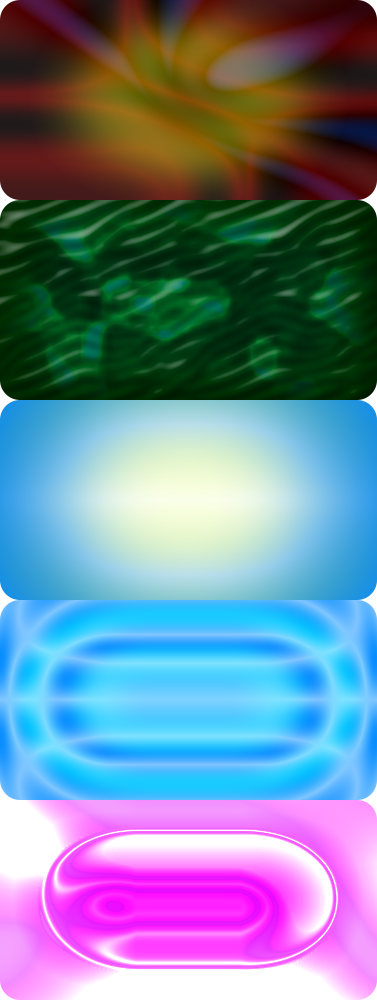
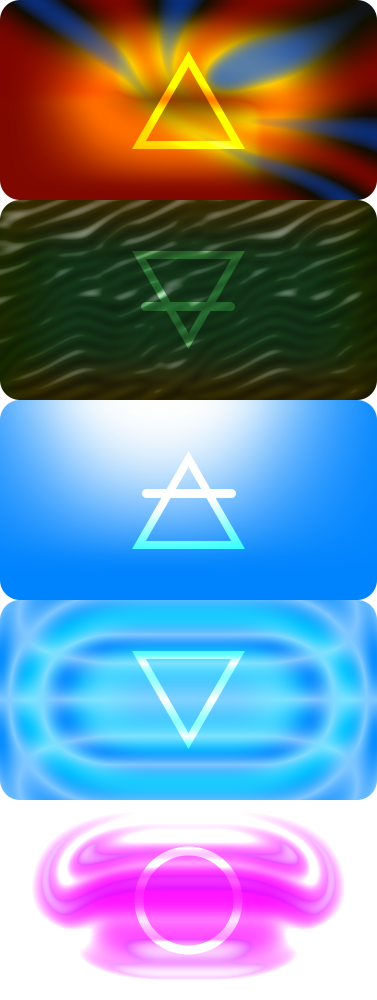
add instruments and tween

diff --git a/js/game.js b/js/game.js
@@ -148,6 +148,8 @@ var HumanMusic;
             _this._pads = [];
             _this._tempo = [];
             _this._controls = [];
+            _this._instruments = [];
+            _this._instrumentTweens = [];
             _this._current = 15;
             _this._beginListenCount = 0;
             _this.initPushedPads();
@@ -155,6 +157,7 @@ var HumanMusic;
             _this.createTimer();
             _this.computeRemains();
             _this.generateTempo();
+            _this.generateInstruments();
             _this.generatePads();
             _this.generateControls();
             _this.launchListen();
@@ -168,7 +171,6 @@ var HumanMusic;
             _this._remainText.anchor.set(1, 0.5);
             _this._remainText.fill = '#00FFFF';
             _this.initBonusEmitter();
-            console.log(_this._level, _this._element);
             return _this;
         }
         MainLayer.prototype.updateRemainText = function () {
@@ -255,6 +257,21 @@ var HumanMusic;
                 this._tempo[i] = tempo;
             }
         };
+        MainLayer.prototype.generateInstruments = function () {
+            for (var i = 0; i < this._levelInstruments[this._level]; i++) {
+                this._instruments[i] = this.game.add.sprite(51, 349 - 52 * i, 'Instruments', i);
+                this._instruments[i].anchor.set(0.5, 0.5);
+                this._instrumentTweens[i] = this.game.add.tween(this._instruments[i].scale).
+                    to({ x: 0.8, y: 0.8 }, 100, function (k) {
+                    return Math.sin(Math.PI * k);
+                }, false, 0);
+            }
+        };
+        MainLayer.prototype.bounce = function (index) {
+            if (!this._instrumentTweens[index].isRunning) {
+                this._instrumentTweens[index].start();
+            }
+        };
         MainLayer.prototype.generatePads = function () {
             var scope = this;
             var _loop_1 = function (i) {
@@ -280,6 +297,11 @@ var HumanMusic;
                 this.preLaunchListen();
             }, this);
             button.anchor.set(0.5, 1);
+            this._controls['listen'] = button;
+            var returnButton = this.game.add.button(50, 50, 'Return', function () {
+                this.game.state.start("Menu");
+            }, this, 1, 0, 2);
+            returnButton.anchor.set(0.5, 0.5);
             this._controls['listen'] = button;
         };
         MainLayer.prototype.preLaunchListen = function () {
@@ -351,6 +373,7 @@ var HumanMusic;
                 for (var i = 0; i < this._levelInstruments[this._level]; i++) {
                     if (this._pushedPads[i][this._current]) {
                         this._soundArray[i].play();
+                        this.bounce(i);
                         this.correctInputs(i);
                     }
                 }
@@ -370,6 +393,7 @@ var HumanMusic;
                     for (var i = 0; i < this._levelInstruments[this._level]; i++) {
                         if (this._element.track[i][this._current]) {
                             this._soundArray[i].play();
+                            this.bounce(i);
                         }
                         if (this._pushedPads[i][this._current]) {
                             this.correctInputs(i);
@@ -421,6 +445,7 @@ var HumanMusic;
                 for (var i = 0; i < this._levelInstruments[this._level]; i++) {
                     if (this._element.track[i][this._current]) {
                         this._soundArray[i].play();
+                        this.bounce(i);
                     }
                     if (this._pushedPads[i][this._current]) {
                         this.correctInputs(i);
@@ -610,7 +635,7 @@ var HumanMusic;
             this._index = index;
         };
         Play.prototype.create = function () {
-            this.stage.backgroundColor = 0x222222;
+            this.stage.backgroundColor = 0x000000;
             this._mainLayer = new HumanMusic.MainLayer(this.game, this.world, this._index);
         };
         Play.prototype.update = function () {
@@ -639,6 +664,8 @@ var HumanMusic;
             this.load.spritesheet('Bonus', 'assets/bonus.png', 25, 25);
             this.load.spritesheet('Elements', 'assets/elements.png', 377, 200);
             this.load.spritesheet('Navigation', 'assets/navigation.png', 200, 50);
+            this.load.spritesheet('Return', 'assets/return.png', 50, 50);
+            this.load.spritesheet('Instruments', 'assets/instruments.png', 50, 50);
             // Sounds
             this.load.audio('kick', 'assets/kick.wav');
             this.load.audio('snare', 'assets/snare.wav');

diff --git a/src/Game/MainLayer.ts b/src/Game/MainLayer.ts
@@ -6,8 +6,10 @@ namespace HumanMusic {
 
         private tuto: boolean = true;
         private _pads: Phaser.Button[][];
+        private _instruments: Phaser.Sprite[];
         private _tempo: Phaser.Sprite[];
         private _pushedPads: boolean[][];
+        public _instrumentTweens: Phaser.Tween[];
 
         private _element: Elemental;
         private _level: number;
@@ -39,6 +41,8 @@ namespace HumanMusic {
             this._pads = [];
             this._tempo = [];
             this._controls = [];
+            this._instruments = [];
+            this._instrumentTweens = [];
 
             this._current = 15;
             this._beginListenCount = 0;
@@ -49,6 +53,7 @@ namespace HumanMusic {
             this.createTimer();
             this.computeRemains();
             this.generateTempo();
+            this.generateInstruments();
             this.generatePads();
             this.generateControls();
             this.launchListen();
@@ -66,7 +71,7 @@ namespace HumanMusic {
             this._remainText.fill = '#00FFFF';
 
             this.initBonusEmitter();
-            console.log(this._level, this._element);
+
         }
 
         private updateRemainText() {
@@ -166,6 +171,25 @@ namespace HumanMusic {
             }
         }
 
+        private generateInstruments() {
+            for (let i = 0; i < this._levelInstruments[this._level]; i++) {
+                this._instruments[i] = this.game.add.sprite(51, 349 - 52 * i, 'Instruments', i);
+                this._instruments[i].anchor.set(0.5, 0.5);
+
+                this._instrumentTweens[i] = this.game.add.tween(this._instruments[i].scale).
+                to({ x: 0.8, y: 0.8 }, 100,
+                    function (k: number) {
+                        return Math.sin(Math.PI * k);
+                    }, false, 0);
+            }
+        }
+
+        public bounce(index: number): void {
+            if (!this._instrumentTweens[index].isRunning) {
+                this._instrumentTweens[index].start();
+            }
+        }
+
         private generatePads() {
             let scope = this;
             for (let i = 0; i < this._levelInstruments[this._level]; i++) {
@@ -186,6 +210,12 @@ namespace HumanMusic {
                 this.preLaunchListen();
             }, this);
             button.anchor.set(0.5, 1);
+            this._controls['listen'] = button;
+
+            let returnButton = this.game.add.button(50 , 50, 'Return', function() {
+                this.game.state.start("Menu");
+            }, this, 1, 0, 2);
+            returnButton.anchor.set(0.5, 0.5);
             this._controls['listen'] = button;
         }
 
@@ -267,6 +297,7 @@ namespace HumanMusic {
                 for (let i = 0; i < this._levelInstruments[this._level]; i++) {
                     if (this._pushedPads[i][this._current]) {
                         this._soundArray[i].play();
+                        this.bounce(i);
                         this.correctInputs(i);
                     }
                 }
@@ -284,6 +315,7 @@ namespace HumanMusic {
                     for (let i = 0; i < this._levelInstruments[this._level]; i++) {
                         if (this._element.track[i][this._current]) {
                             this._soundArray[i].play();
+                            this.bounce(i);
                         }
                         if (this._pushedPads[i][this._current]) {
                             this.correctInputs(i);
@@ -308,6 +340,7 @@ namespace HumanMusic {
                 for (let i = 0; i < this._levelInstruments[this._level]; i++) {
                     if (this._element.track[i][this._current]) {
                         this._soundArray[i].play();
+                        this.bounce(i);
                     }
                     if (this._pushedPads[i][this._current]) {
                         this.correctInputs(i);
@@ -329,6 +362,7 @@ namespace HumanMusic {
                 for (let i = 0; i < this._levelInstruments[this._level]; i++) {
                     if (this._element.track[i][this._current]) {
                         this._soundArray[i].play();
+                        this.bounce(i);
                     }
                     if (this._pushedPads[i][this._current]) {
                         this.correctInputs(i);

diff --git a/src/States/Preload.ts b/src/States/Preload.ts
@@ -14,6 +14,8 @@ namespace HumanMusic {
             this.load.spritesheet('Bonus', 'assets/bonus.png', 25, 25);
             this.load.spritesheet('Elements', 'assets/elements.png', 377, 200);
             this.load.spritesheet('Navigation', 'assets/navigation.png', 200, 50);
+            this.load.spritesheet('Return', 'assets/return.png', 50, 50);
+            this.load.spritesheet('Instruments', 'assets/instruments.png', 50, 50);
 
             // Sounds
             this.load.audio('kick', 'assets/kick.wav');

diff --git a/src/States/Play.ts b/src/States/Play.ts
@@ -9,7 +9,7 @@ namespace HumanMusic {
         }
 
         public create() {
-            this.stage.backgroundColor = 0x222222;
+            this.stage.backgroundColor = 0x000000;
             this._mainLayer = new MainLayer(this.game, this.world, this._index);
         }
 
